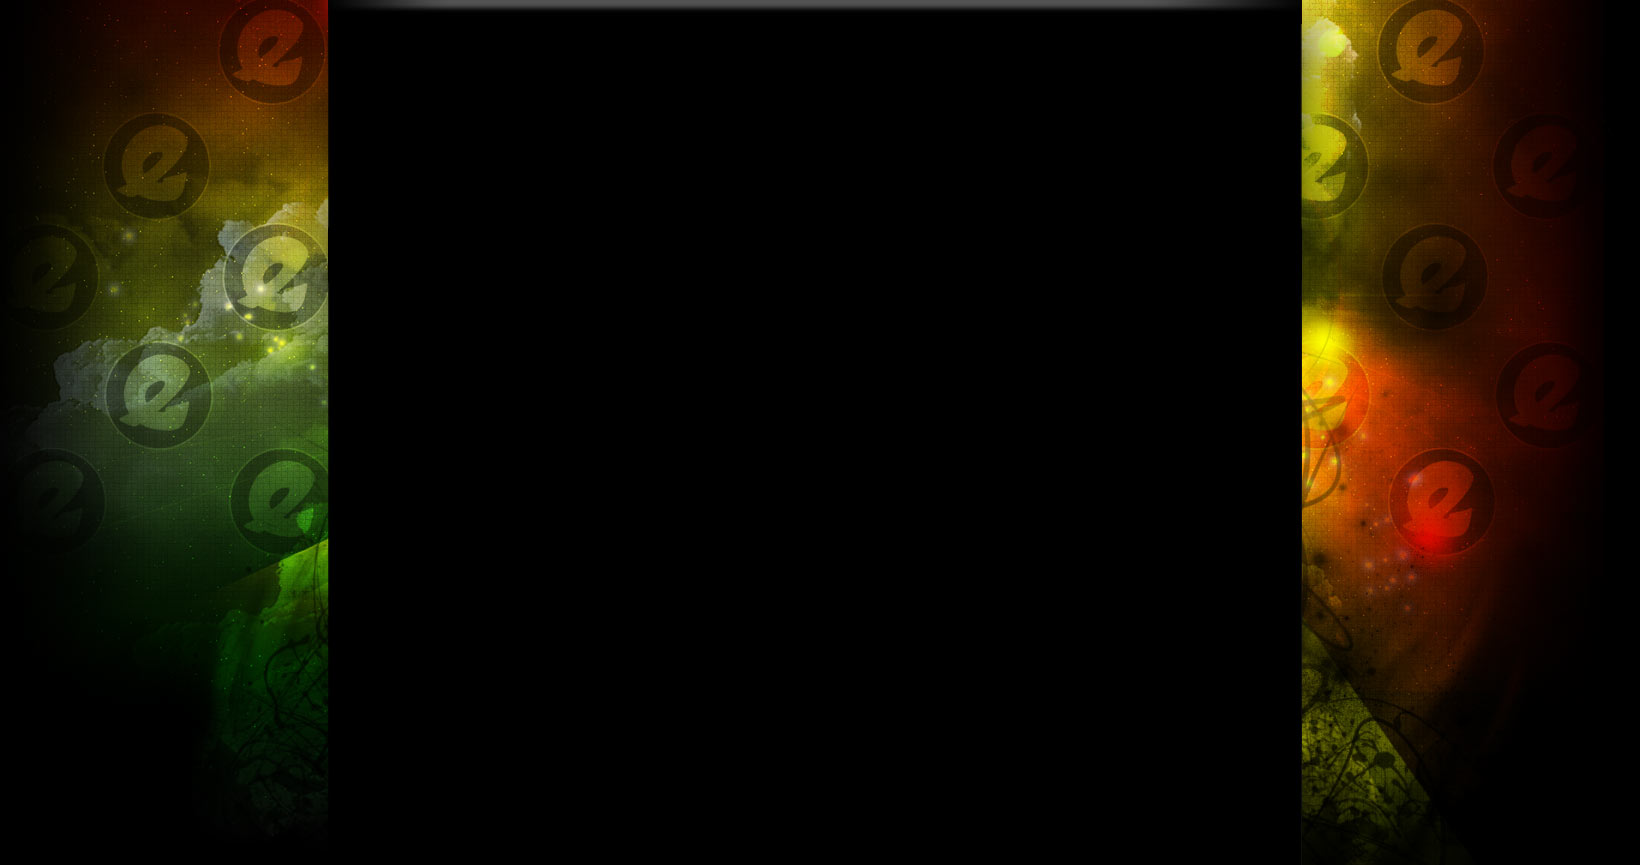
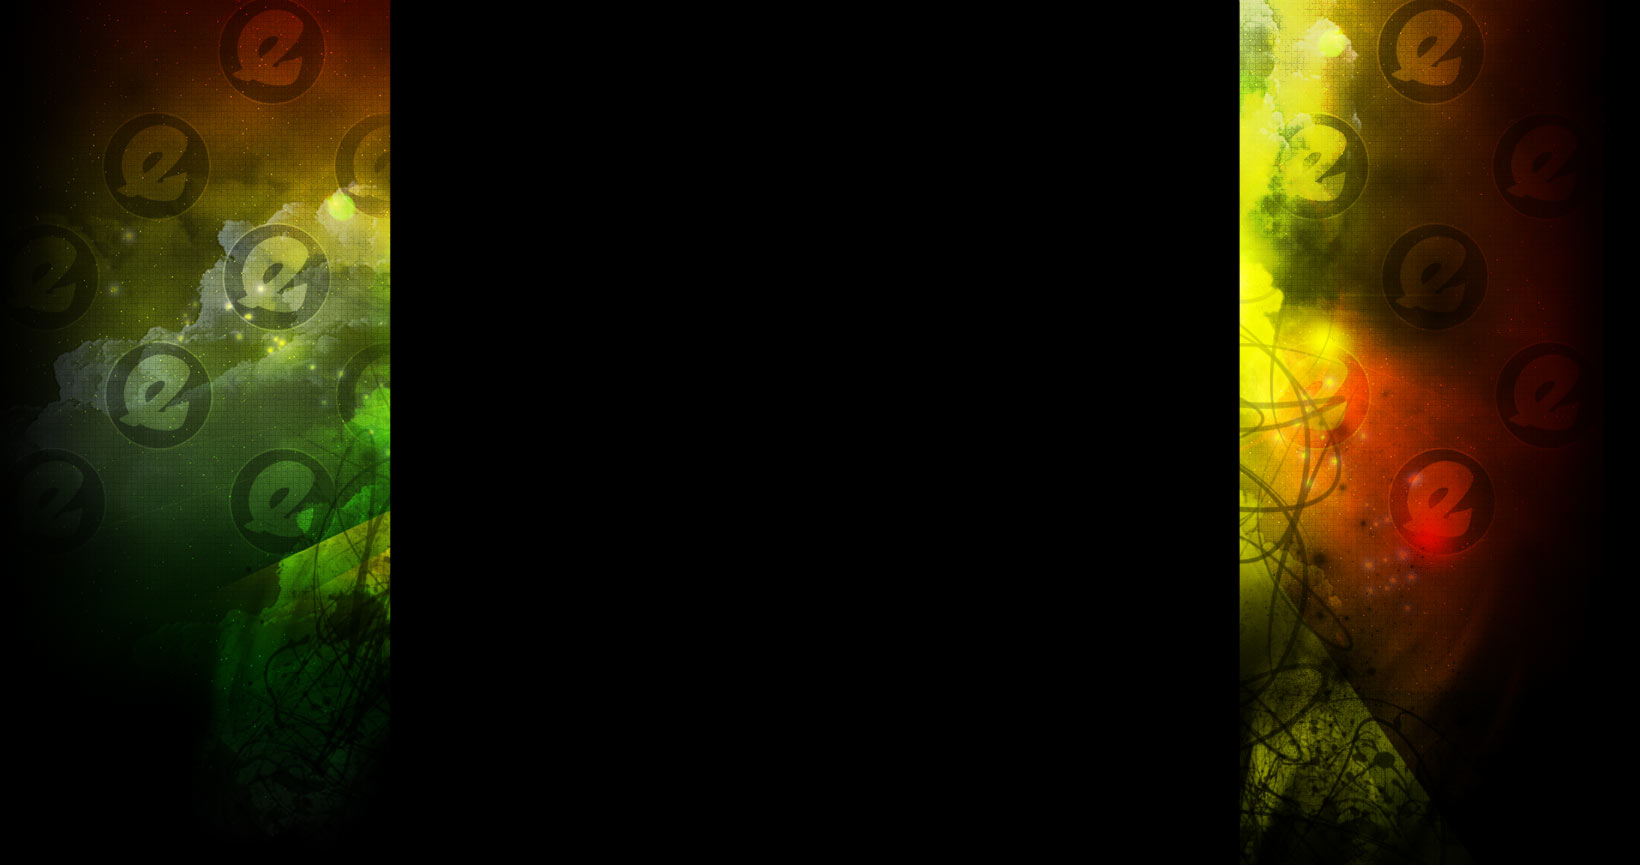
update site_bg

Changed region(s): [[0.1866, 0.0, 0.8085, 0.9676]]

diff --git a/htdocs/wordpress/wp-content/themes/elementz/style.css b/htdocs/wordpress/wp-content/themes/elementz/style.css
@@ -376,6 +376,7 @@ ol li {
   margin: 0 auto;
   overflow: hidden;
   *zoom: 1;
+  background-color: #000;
 }
 
 #container {

diff --git a/htdocs/wordpress/wp-content/themes/elementz/stylesheets/style.scss b/htdocs/wordpress/wp-content/themes/elementz/stylesheets/style.scss
@@ -89,6 +89,7 @@ ol {
 
 #wrapper {
   @include container;
+  background-color: #000;
 }
 
 #container {
